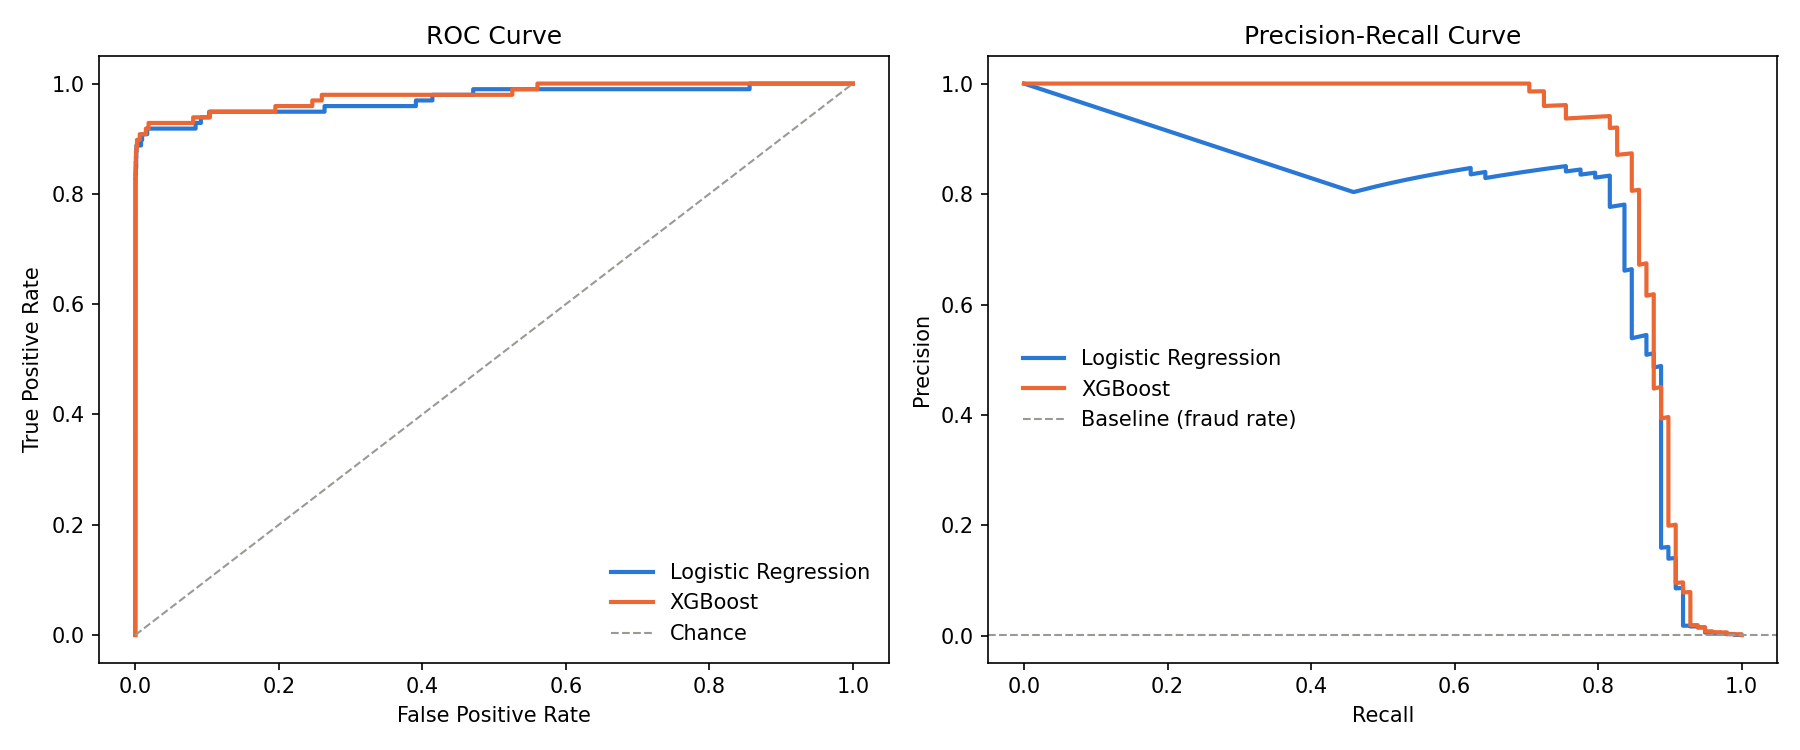
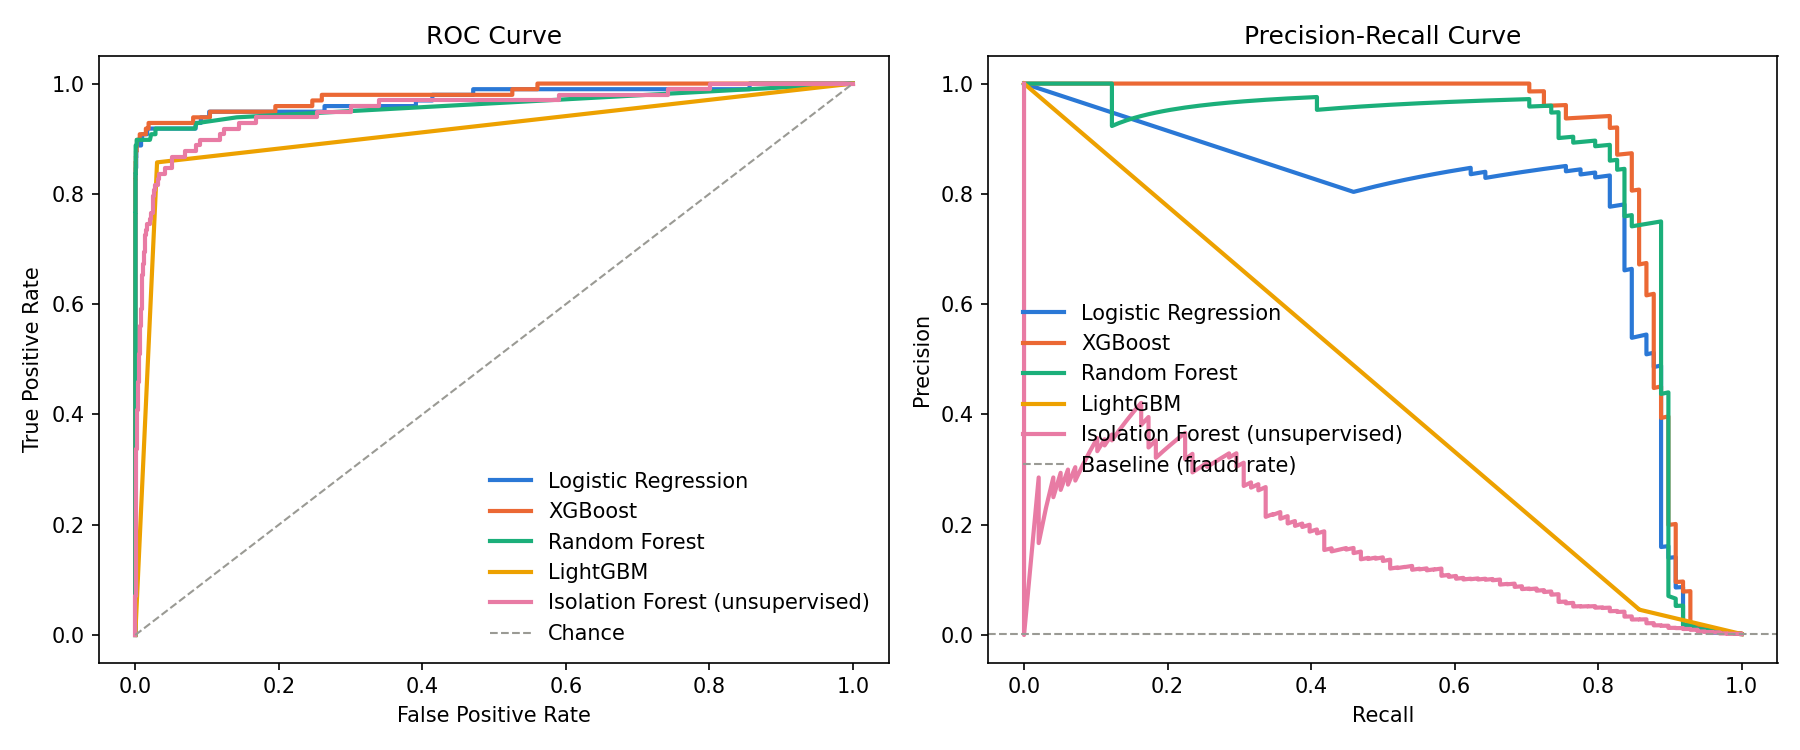
Add Random Forest, LightGBM, and Isolation Forest to model comparison
Extends the existing Logistic Regression / XGBoost comparison with two
more supervised models and one unsupervised baseline (Isolation Forest,
trained without labels) to show the labeled-vs-unlabeled tradeoff in
fraud detection. Comparison table, charts, and metrics.json now cover
all five models; the best supervised model by PR-AUC is still saved as
the deployable artifact (XGBoost again this run).

diff --git a/src/train.py b/src/train.py
@@ -7,6 +7,8 @@ matplotlib.use("Agg")
 from matplotlib.colors import LinearSegmentedColormap
 import matplotlib.pyplot as plt
 import numpy as np
+from lightgbm import LGBMClassifier
+from sklearn.ensemble import IsolationForest, RandomForestClassifier
 from sklearn.linear_model import LogisticRegression
 from sklearn.metrics import (
     average_precision_score,
@@ -28,9 +30,27 @@ except ModuleNotFoundError:  # pragma: no cover
     from data import split_dataset
 
 # Fixed categorical colors: same slot always means the same model, never re-cycled.
-COLOR_LR = "#2a78d6"    # blue
-COLOR_XGB = "#eb6834"   # orange
+COLOR_LR = "#2a78d6"     # blue
+COLOR_XGB = "#eb6834"    # orange
+COLOR_RF = "#1baf7a"     # aqua
+COLOR_LGBM = "#eda100"   # yellow
+COLOR_ISO = "#e87ba4"    # magenta
 SEQUENTIAL_BLUE = LinearSegmentedColormap.from_list("seq_blue", ["#f5f9ff", "#2a78d6"])
+
+DISPLAY_NAMES = {
+    "logistic_regression": "Logistic Regression",
+    "xgboost": "XGBoost",
+    "random_forest": "Random Forest",
+    "lightgbm": "LightGBM",
+    "isolation_forest": "Isolation Forest (unsupervised)",
+}
+MODEL_COLORS = {
+    "logistic_regression": COLOR_LR,
+    "xgboost": COLOR_XGB,
+    "random_forest": COLOR_RF,
+    "lightgbm": COLOR_LGBM,
+    "isolation_forest": COLOR_ISO,
+}
 
 
 def calculate_metrics(y_true, y_pred, y_prob):
@@ -55,9 +75,11 @@ def print_confusion_matrix(y_true, y_pred):
 
 
 def save_confusion_matrices(results, output_path: Path):
-    fig, axes = plt.subplots(1, len(results), figsize=(6 * len(results), 5))
-    if len(results) == 1:
-        axes = [axes]
+    n = len(results)
+    cols = min(n, 3)
+    rows = -(-n // cols)  # ceil division
+    fig, axes = plt.subplots(rows, cols, figsize=(6 * cols, 5 * rows))
+    axes = np.array(axes).reshape(-1)
 
     for ax, (name, y_true, y_pred) in zip(axes, results):
         cm = confusion_matrix(y_true, y_pred)
@@ -73,6 +95,9 @@ def save_confusion_matrices(results, output_path: Path):
                 value = cm[i, j]
                 text_color = "white" if value > vmax * 0.6 else "#1a1a19"
                 ax.text(j, i, f"{value:,}", ha="center", va="center", color=text_color, fontsize=13)
+
+    for ax in axes[n:]:
+        ax.axis("off")
 
     fig.suptitle("Confusion Matrix: Fraud Caught vs. Missed")
     fig.tight_layout()
@@ -107,35 +132,47 @@ def save_roc_pr_curves(y_test, model_probs, fraud_rate, output_path: Path):
     plt.close(fig)
 
 
-def save_metrics_comparison(lr_metrics, xgb_metrics, output_path: Path):
+def save_metrics_comparison(all_metrics, colors, output_path: Path):
     metric_keys = ["precision", "recall", "f1", "roc_auc", "pr_auc"]
     metric_labels = ["Precision", "Recall", "F1", "ROC-AUC", "PR-AUC"]
-    lr_values = [lr_metrics[k] for k in metric_keys]
-    xgb_values = [xgb_metrics[k] for k in metric_keys]
+    names = list(all_metrics.keys())
+    n = len(names)
 
     x = np.arange(len(metric_keys))
-    width = 0.35
+    width = 0.8 / n
 
-    fig, ax = plt.subplots(figsize=(9, 5))
-    bars_lr = ax.bar(x - width / 2, lr_values, width, label="Logistic Regression", color=COLOR_LR)
-    bars_xgb = ax.bar(x + width / 2, xgb_values, width, label="XGBoost", color=COLOR_XGB)
-
-    ax.set_xticks(x)
-    ax.set_xticklabels(metric_labels)
-    ax.set_ylim(0, 1.05)
-    ax.set_ylabel("Score")
-    ax.set_title("Model Comparison (accuracy intentionally omitted)")
-    ax.legend(loc="upper left", frameon=False)
-
-    for bars in (bars_lr, bars_xgb):
+    fig, ax = plt.subplots(figsize=(max(9, 2.2 * n + 3), 5))
+    for i, name in enumerate(names):
+        values = [all_metrics[name][k] for k in metric_keys]
+        offset = (i - (n - 1) / 2) * width
+        bars = ax.bar(x + offset, values, width, label=name, color=colors[name])
         for bar in bars:
             height = bar.get_height()
             ax.text(bar.get_x() + bar.get_width() / 2, height + 0.02, f"{height:.2f}",
-                    ha="center", va="bottom", fontsize=9, color="#52514e")
+                    ha="center", va="bottom", fontsize=8, color="#52514e")
+
+    ax.set_xticks(x)
+    ax.set_xticklabels(metric_labels)
+    ax.set_ylim(0, 1.15)
+    ax.set_ylabel("Score")
+    ax.set_title("Model Comparison (accuracy intentionally omitted)")
+    ax.legend(loc="upper left", frameon=False, fontsize=9, ncol=2)
 
     fig.tight_layout()
     fig.savefig(output_path, dpi=150)
     plt.close(fig)
+
+
+def print_comparison_table(all_metrics):
+    rows = sorted(all_metrics.items(), key=lambda kv: kv[1]["pr_auc"], reverse=True)
+    header = f"{'Model':<32}{'Precision':>10}{'Recall':>10}{'F1':>10}{'ROC-AUC':>10}{'PR-AUC':>10}"
+    print(header)
+    print("-" * len(header))
+    for name, m in rows:
+        print(
+            f"{name:<32}{m['precision']:>10.3f}{m['recall']:>10.3f}"
+            f"{m['f1']:>10.3f}{m['roc_auc']:>10.3f}{m['pr_auc']:>10.3f}"
+        )
 
 
 def train_and_evaluate():
@@ -172,37 +209,133 @@ def train_and_evaluate():
     print(json.dumps(xgb_metrics, indent=2))
     print_confusion_matrix(y_test, xgb_pred)
 
+    rf = RandomForestClassifier(
+        class_weight="balanced",
+        n_estimators=200,
+        max_depth=16,
+        random_state=RANDOM_STATE,
+        n_jobs=-1,
+    )
+    rf.fit(X_train, y_train)
+    rf_pred = rf.predict(X_test)
+    rf_prob = rf.predict_proba(X_test)[:, 1]
+    rf_metrics = calculate_metrics(y_test, rf_pred, rf_prob)
+
+    print("\nRandom Forest metrics:")
+    print(json.dumps(rf_metrics, indent=2))
+    print_confusion_matrix(y_test, rf_pred)
+
+    lgbm = LGBMClassifier(
+        is_unbalance=True,
+        n_estimators=500,
+        learning_rate=0.05,
+        max_depth=6,
+        random_state=RANDOM_STATE,
+        n_jobs=-1,
+        verbosity=-1,
+    )
+    lgbm.fit(X_train, y_train)
+    lgbm_pred = lgbm.predict(X_test)
+    lgbm_prob = lgbm.predict_proba(X_test)[:, 1]
+    lgbm_metrics = calculate_metrics(y_test, lgbm_pred, lgbm_prob)
+
+    print("\nLightGBM metrics:")
+    print(json.dumps(lgbm_metrics, indent=2))
+    print_confusion_matrix(y_test, lgbm_pred)
+
+    # Isolation Forest is unsupervised: it never sees y_train, only the feature matrix.
+    iso_contamination = float(y_train.mean())
+    iso = IsolationForest(
+        contamination=iso_contamination,
+        n_estimators=200,
+        random_state=RANDOM_STATE,
+        n_jobs=-1,
+    )
+    iso.fit(X_train)
+    iso_raw_pred = iso.predict(X_test)  # -1 = anomaly, 1 = normal
+    iso_pred = np.where(iso_raw_pred == -1, 1, 0)
+    iso_prob = -iso.score_samples(X_test)  # negate so higher = more fraud-like
+    iso_metrics = calculate_metrics(y_test, iso_pred, iso_prob)
+
+    print(f"\nIsolation Forest metrics (unsupervised, contamination={iso_contamination:.4%}):")
+    print(json.dumps(iso_metrics, indent=2))
+    print_confusion_matrix(y_test, iso_pred)
+
+    all_metrics = {
+        "logistic_regression": lr_metrics,
+        "xgboost": xgb_metrics,
+        "random_forest": rf_metrics,
+        "lightgbm": lgbm_metrics,
+        "isolation_forest": iso_metrics,
+    }
+    all_preds = {
+        "logistic_regression": lr_pred,
+        "xgboost": xgb_pred,
+        "random_forest": rf_pred,
+        "lightgbm": lgbm_pred,
+        "isolation_forest": iso_pred,
+    }
+    all_probs = {
+        "logistic_regression": lr_prob,
+        "xgboost": xgb_prob,
+        "random_forest": rf_prob,
+        "lightgbm": lgbm_prob,
+        "isolation_forest": iso_prob,
+    }
+
+    print("\nModel comparison (sorted by PR-AUC):")
+    print_comparison_table({DISPLAY_NAMES[k]: v for k, v in all_metrics.items()})
+
     FIGURES_DIR.mkdir(parents=True, exist_ok=True)
     fraud_rate = float(y_test.sum() / len(y_test))
     save_confusion_matrices(
-        [("Logistic Regression", y_test, lr_pred), ("XGBoost", y_test, xgb_pred)],
+        [(DISPLAY_NAMES[k], y_test, all_preds[k]) for k in all_metrics],
         FIGURES_DIR / "confusion_matrices.png",
     )
     save_roc_pr_curves(
         y_test,
-        [("Logistic Regression", lr_prob, COLOR_LR), ("XGBoost", xgb_prob, COLOR_XGB)],
+        [(DISPLAY_NAMES[k], all_probs[k], MODEL_COLORS[k]) for k in all_metrics],
         fraud_rate,
         FIGURES_DIR / "roc_pr_curves.png",
     )
-    save_metrics_comparison(lr_metrics, xgb_metrics, FIGURES_DIR / "metrics_comparison.png")
+    save_metrics_comparison(
+        {DISPLAY_NAMES[k]: v for k, v in all_metrics.items()},
+        {DISPLAY_NAMES[k]: MODEL_COLORS[k] for k in all_metrics},
+        FIGURES_DIR / "metrics_comparison.png",
+    )
     print(f"\nSaved result visualizations to {FIGURES_DIR}")
 
+    # Isolation Forest is unsupervised and not a deployment candidate here — it's a
+    # comparison point for when labeled fraud examples aren't available.
+    supervised_models = {
+        "logistic_regression": lr,
+        "xgboost": xgb,
+        "random_forest": rf,
+        "lightgbm": lgbm,
+    }
+    best_name = max(supervised_models, key=lambda k: all_metrics[k]["pr_auc"])
+    best_model = supervised_models[best_name]
+    print(
+        f"\nBest supervised model by PR-AUC: {DISPLAY_NAMES[best_name]} "
+        f"(pr_auc={all_metrics[best_name]['pr_auc']:.4f}) -> saved as the deployable model"
+    )
+
     MODELS_DIR.mkdir(parents=True, exist_ok=True)
-    joblib.dump(xgb, MODELS_DIR / "xgboost_model.joblib")
+    joblib.dump(best_model, MODELS_DIR / "xgboost_model.joblib")
     joblib.dump(feature_names, MODELS_DIR / "feature_names.joblib")
     joblib.dump(scaler, MODELS_DIR / "scaler.joblib")
 
     metrics = {
-        "logistic_regression": lr_metrics,
-        "xgboost": xgb_metrics,
+        **all_metrics,
+        "best_supervised_model": best_name,
     }
     with (MODELS_DIR / "metrics.json").open("w", encoding="utf-8") as f:
         json.dump(metrics, f, indent=2)
 
     return {
-        "logistic_regression": lr_metrics,
-        "xgboost": xgb_metrics,
+        **all_metrics,
         "feature_names": feature_names,
+        "best_supervised_model": best_name,
     }
 
 

diff --git a/README.md b/README.md
@@ -23,7 +23,7 @@ So the real goal isn't "be right as often as possible." It's **catch as much fra
 
 An end-to-end pipeline that:
 1. Loads and cleans the transaction data
-2. Trains two models and compares them
+2. Trains five models — four supervised, one unsupervised — and compares them
 3. Explains which signals drove each fraud prediction
 4. Serves it all through a clickable app where you can score a transaction and adjust how strict the model is
 
@@ -45,6 +45,9 @@ An end-to-end pipeline that:
 **The models.**
 - **Logistic Regression** — a simple baseline. I told it to weight the rare fraud class more heavily so it wouldn't ignore it.
 - **XGBoost** — a stronger model. I used a setting called `scale_pos_weight` to handle the imbalance (it makes each fraud example "count" ~580x more during training, since there are ~580 legit transactions for every fraud).
+- **Random Forest** — another tree-based model, also given `class_weight="balanced"`, as a second supervised comparison point.
+- **LightGBM** — a faster gradient-boosting alternative to XGBoost, using `is_unbalance=True` for the same reason.
+- **Isolation Forest** — the odd one out: it's **unsupervised**. It never sees the fraud labels during training, only the transaction features, and instead learns what "normal" looks like and flags whatever sits furthest from it as anomalous. This matters in practice because in real fraud systems you often *don't* have labeled examples of brand-new fraud patterns — an unsupervised model like this is what you'd lean on until labels catch up.
 
 **Explainability.** I used **SHAP** to show which features pushed a transaction toward "fraud." This matters because a real fraud team won't trust a black box — they need to see the reasoning.
 
@@ -54,15 +57,25 @@ An end-to-end pipeline that:
 
 ## What I found (the results)
 
-| Model | Precision | Recall | F1 | PR-AUC | Fraud caught / missed | False alarms |
-|-------|-----------|--------|----|--------|----------------------|--------------|
-| Logistic Regression | 0.061 | 0.918 | 0.114 | 0.716 | 90 / 8 | **1,386** |
-| **XGBoost** | **0.872** | 0.837 | **0.854** | **0.873** | 82 / 16 | **12** |
+Sorted by PR-AUC — the honest headline number under this much imbalance:
+
+| Model | Precision | Recall | F1 | ROC-AUC | PR-AUC | Fraud caught / missed | False alarms |
+|-------|-----------|--------|----|---------|--------|----------------------|--------------|
+| **XGBoost** | **0.872** | 0.837 | **0.854** | **0.979** | **0.873** | 82 / 16 | **12** |
+| Random Forest | 0.895 | 0.786 | 0.837 | 0.962 | 0.847 | 77 / 21 | 9 |
+| Logistic Regression | 0.061 | 0.918 | 0.114 | 0.972 | 0.716 | 90 / 8 | 1,386 |
+| Isolation Forest *(unsupervised)* | 0.280 | 0.306 | 0.293 | 0.954 | 0.172 | 30 / 68 | 77 |
+| LightGBM | 0.046 | 0.857 | 0.088 | 0.913 | 0.040 | 84 / 14 | 1,725 |
+
+Isolation Forest is the one model here that learns no labels at all — it's included as a useful comparison because in real fraud systems you often don't have labeled examples of brand-new fraud patterns, so this is roughly what you'd fall back on. The other four are all supervised.
 
 **In plain English:**
 
 - The **Logistic Regression** model caught almost all the fraud (91.8%) — but to do it, it screamed "fraud!" at **1,386 legitimate customers**. In real life that's a lot of angry people getting their cards declined. Not workable.
-- **XGBoost** caught a bit less fraud (83.7%) but with only **12 false alarms** instead of 1,386. That's a massively better balance.
+- **XGBoost** caught a bit less fraud (83.7%) but with only **12 false alarms** instead of 1,386. That's a massively better balance, and the best PR-AUC of the group.
+- **Random Forest** landed close behind XGBoost — fewer false alarms (9), but it also missed more fraud (21 vs. 16).
+- **Isolation Forest**, working with zero labels, still beat random guessing by a wide margin (PR-AUC 0.172 vs. a ~0.0017 baseline) — but it's nowhere near the supervised models. That gap *is* the point: it's the cost of not having labels.
+- **LightGBM** is the surprise of the table: strong ROC-AUC but the worst PR-AUC by far, because at the default 0.5 decision threshold it drowned in false alarms (1,725). This is a good reminder that a model isn't "bad" or "good" in the abstract — its default threshold might just be poorly calibrated for a problem this imbalanced, and PR-AUC (which looks across all thresholds) is what catches that.
 
 This is a textbook example of the **precision/recall tradeoff**: you can crank one up, but usually at the cost of the other. The whole skill is choosing the right balance for the situation.
 
@@ -106,11 +119,11 @@ pip install -r requirements.txt
 # https://www.kaggle.com/datasets/mlg-ulb/creditcardfraud
 
 python src/eda.py        # explore the data + save charts
-python src/train.py      # train both models + save results
+python src/train.py      # train all five models + save results
 python src/explain.py    # SHAP explanations
 streamlit run src/app.py # launch the interactive app
 ```
 
 ## Tech used
 
-Python · pandas · scikit-learn · XGBoost · SHAP · Streamlit
+Python · pandas · scikit-learn · XGBoost · LightGBM · SHAP · Streamlit
